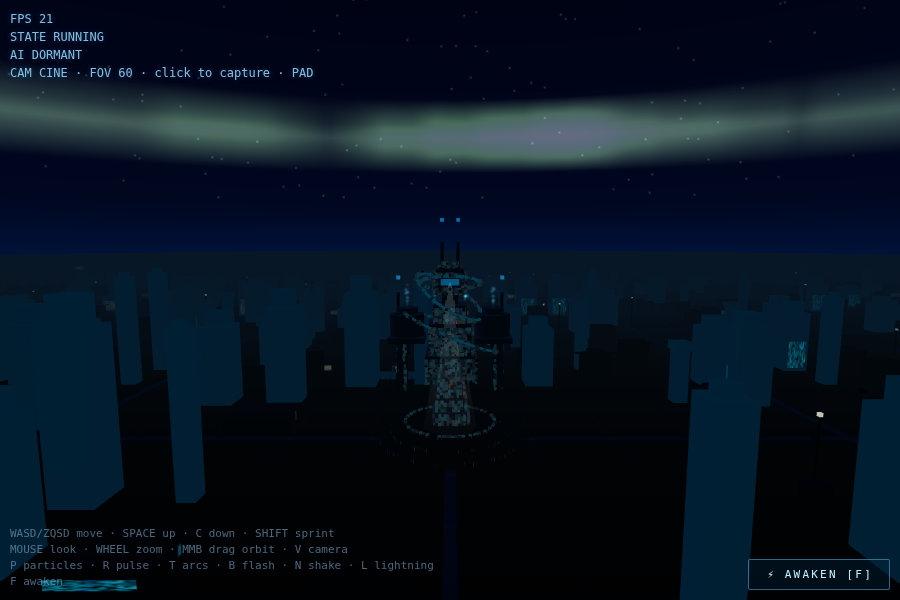
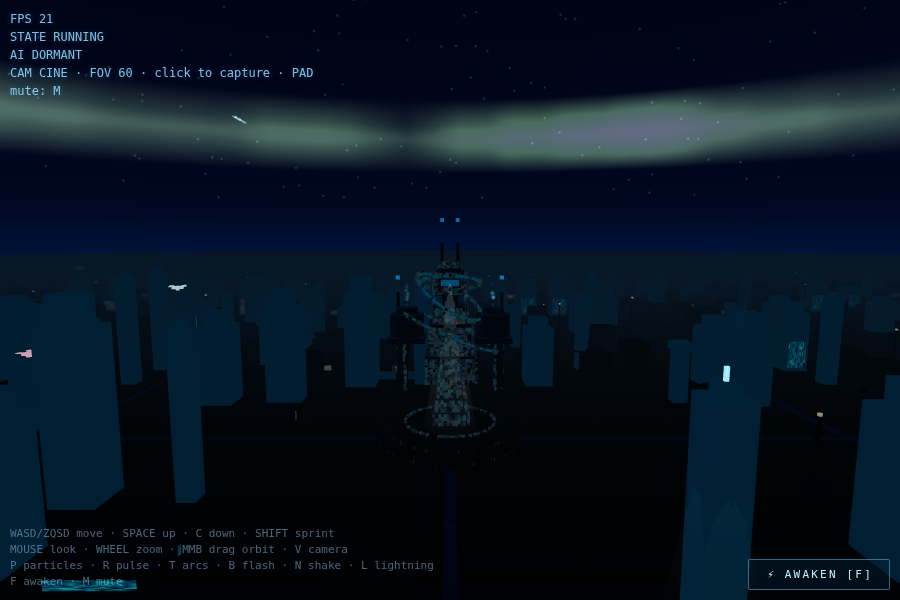
M11.1: Web Audio master graph + gesture gate — AUDIO = master bus gain (0.8) → DynamicsCompressor → user-mute gain → destination, built only inside the START-click gesture (unlock() is still only ever called from BOOT.enter('RUNNING') ⇒ no AudioContext, no audio, no listeners before the gesture); M 

diff --git a/index.html b/index.html
@@ -749,16 +749,36 @@ const BOOT = {
 };
 
 /* ------------------------------------------------------------------ *
- * AUDIO — gesture-gated unlock stub.
- * M11 builds the master graph + beds on top of this context.
+ * AUDIO — Web Audio master graph (M11.1).
+ *
+ * Graph:  master (bus gain) → compressor → muteGain → destination
+ *   - master:   one bus — M11.2 beds and M11.3 event sounds connect
+ *               here, so everything the game makes flows through the
+ *               same two choke points below.
+ *   - comp:     a DynamicsCompressor glues the whole mix; one for the
+ *               whole graph, never per-source.
+ *   - muteGain: user mute (M key) — the LAST stage before destination,
+ *               so muting silences everything at zero cost.
+ *
+ * Gesture gate: unlock() is only ever called from BOOT.enter('RUNNING')
+ * on the START click — no AudioContext exists before that gesture
+ * (no audio before gesture). Resume-safe: a context the browser
+ * suspended (tab hidden/backgrounded) is resumed on the next gesture
+ * or visibility; refresh / re-entry just rebuilds this module fresh
+ * and hits the same path again.
  * ------------------------------------------------------------------ */
 const AUDIO = {
   ctx: null,
   master: null,
+  comp: null,
+  muteGain: null,
+  muted: false,
+  wired: false,
+  _gestureWired: false,
 
   unlock() {
     if (AUDIO.ctx) {
-      if (AUDIO.ctx.state === 'suspended') AUDIO.ctx.resume();
+      AUDIO._resume();
       return;
     }
     const AC = window.AudioContext || window.webkitAudioContext;
@@ -767,10 +787,54 @@ const AUDIO = {
       AUDIO.ctx = new AC();
       AUDIO.master = AUDIO.ctx.createGain();
       AUDIO.master.gain.value = 0.8;
-      AUDIO.master.connect(AUDIO.ctx.destination);
+      AUDIO.comp = AUDIO.ctx.createDynamicsCompressor();
+      AUDIO.muteGain = AUDIO.ctx.createGain();
+      AUDIO.muteGain.gain.value = 1;
+      /* connect() returns the destination node (spec) — capture the
+       * wiring flag; the headless smoke build exposes no
+       * inputs/outputs introspection on AudioNode. */
+      const c1 = AUDIO.master.connect(AUDIO.comp);
+      const c2 = AUDIO.comp.connect(AUDIO.muteGain);
+      const c3 = AUDIO.muteGain.connect(AUDIO.ctx.destination);
+      AUDIO.wired = c1 === AUDIO.comp && c2 === AUDIO.muteGain &&
+        c3 === AUDIO.ctx.destination;
     } catch (_) {
       AUDIO.ctx = null;
     }
+    AUDIO._wireResume();
+  },
+
+  setMuted(on) {
+    AUDIO.muted = !!on;
+    if (AUDIO.ctx && AUDIO.muteGain) {
+      const t = AUDIO.ctx.currentTime;
+      AUDIO.muteGain.gain.setTargetAtTime(AUDIO.muted ? 0 : 1, t, 0.02);
+    }
+  },
+
+  toggleMute() { AUDIO.setMuted(!AUDIO.muted); },
+
+  /* Resume a context the browser suspended (tab hidden/backgrounded).
+   * It was created inside a user gesture (START click), so Chrome keeps
+   * activation for resume(); if a gesture is still required the call
+   * simply waits — never an error. */
+  _resume() {
+    if (AUDIO.ctx && AUDIO.ctx.state === 'suspended') {
+      const p = AUDIO.ctx.resume();
+      if (p && p.catch) p.catch(() => {});
+    }
+  },
+
+  /* Cheap gesture hooks, wired once at unlock — zero cost before the
+   * first gesture (nothing exists yet). */
+  _wireResume() {
+    if (AUDIO._gestureWired) return;
+    AUDIO._gestureWired = true;
+    window.addEventListener('pointerdown', () => AUDIO._resume());
+    window.addEventListener('keydown', () => AUDIO._resume());
+    document.addEventListener('visibilitychange', () => {
+      if (!document.hidden) AUDIO._resume();
+    });
   },
 };
 
@@ -868,6 +932,7 @@ const INPUT = {
       if (e.code === 'KeyN' && !e.repeat) INPUT.shakeTrigger = true;
       if (e.code === 'KeyL' && !e.repeat) INPUT.lightningTrigger = true;
       if (e.code === 'KeyF' && !e.repeat) INPUT.wakeTrigger = true;
+      if (e.code === 'KeyM' && !e.repeat) AUDIO.toggleMute();   // M11.1
       INPUT.keys.add(e.code);
       if (e.code === 'Space') e.preventDefault();
     });
@@ -6372,7 +6437,7 @@ const HUD = {
       'WASD/ZQSD move · SPACE up · C down · SHIFT sprint\n' +
       'MOUSE look · WHEEL zoom · MMB drag orbit · V camera\n' +
       'P particles · R pulse · T arcs · B flash · N shake · L lightning\n' +
-      'F awaken';
+      'F awaken · M mute';
     /* M9.6: HUD awaken button — same entry as the F key: the manual
      * trigger path routes through ENTITY.wake() (no-op unless DORMANT)
      * and marks the session user-triggered so the one-shot auto skips. */
@@ -6396,11 +6461,13 @@ const HUD = {
         const mode = CAMERA.orbit ? 'ORBIT' : CAMERA.mode;
         const mouse = INPUT.pointerLocked ? 'locked' : 'click to capture';
         const pad = INPUT.pad.connected ? 'PAD' : '-';
+        const mute = AUDIO.muted ? 'MUTED' : 'mute: M';
         HUD.el.textContent =
           `FPS ${String(Math.round(HUD.fps)).padStart(2, ' ')}\n` +
           `STATE ${BOOT.state}\n` +
           `AI ${ENTITY.state}\n` +
-          `CAM ${mode} · FOV ${Math.round(camera.fov)} · ${mouse} · ${pad}`;
+          `CAM ${mode} · FOV ${Math.round(camera.fov)} · ${mouse} · ${pad}\n` +
+          `${mute}`;
         HUD.el.style.whiteSpace = 'pre';
       }
     }
@@ -6493,6 +6560,7 @@ window.SIM = {
   FX,
   ATMOS,
   TIER,
+  AUDIO,
   HUD,
   CFG,
   renderer,

diff --git a/PLAN.md b/PLAN.md
@@ -73,7 +73,7 @@ smoke-test evidence.
 | **M10.1** ✅ | Voxel neon **sloth** monument atop one compute tower on a side avenue + rooftop "UNSLOTH" holo sign with cycling taglines ("local ≠ slow" / "why rush?") | Monument + sign readable from street; sign cycles; outside default intro framing |
 | **M10.2** ✅ | Relaxed holographic sloth silhouette on the antenna arm (billboard + canvas sprite, additive, slow breathing) + 1–2 slow sloth-themed maintenance drones (bigger, soft pink) patrolling that street only | Holo sloth breathes; pink drones patrol only that street |
 | **M10.3** ✅ | Awakening reaction: sign flares, holograph brightens + one slow stretch, sloth drones rise to hover for the pulse, then resume | Reaction plays during AWAKE, everything returns to idle after DECAY |
-| **M11.1** | Audio master graph: compressor → user-mute gain → destination; gesture-gated start (START button), resume-safe | Audio starts only after gesture; mute key mutes all; refresh/re-entry safe |
+| **M11.1** ✅ | Audio master graph: compressor → user-mute gain → destination; gesture-gated start (START button), resume-safe | Audio starts only after gesture; mute key mutes all; refresh/re-entry safe |
 | **M11.2** | Looping beds: reactor hum (detuned sines + sub + LFO), fans (filtered noise, band-pass sweep), distant machinery (noise + random low thumps) | Beds run indefinitely without audible repeats/bugs; identifiable as "machine city" within 3 s |
 | **M11.3** | Event sounds: pulse thump, arc crackle, steam hiss, drone whir — wired to M6–M9 emitters | Each event in-game produces its sound; all silent when muted; zero cost when idle |
 | **M11.4** | Spatial-ish mixing: one panner + distance gain for 2–3 nearest emitters, rest folded into ambient bed | Walking past an emitter pans/attenuates; cost bounded |
@@ -852,11 +852,45 @@ feels like it belongs to the world, not pasted on.
 ### M11 — Procedural audio (Web Audio only)
 
 #### M11.1 — Master graph + gesture gate
-- [ ] Compressor → user-mute gain → destination; starts only on user
+- [x] Compressor → user-mute gain → destination; starts only on user
       gesture (START button), resume-safe.
 - **Test:** no audio before gesture; mute key mutes everything; refresh /
       re-entry safe, no errors.
 - **Commit when:** gate + mute verified.
+  `AUDIO` (exposed on `window.SIM`) is the Web Audio master graph, built
+  inside the START-click gesture and never before: **master** (GainNode,
+  0.8) → **comp** (DynamicsCompressor) → **muteGain** (GainNode, 1.0) →
+  `ctx.destination`. Everything the game makes (M11.2 beds, M11.3 event
+  sounds, M11.4 spatial sources) connects to `AUDIO.master`; the
+  compressor and the mute gain are the only two choke points. `unlock()`
+  is only ever called from `BOOT.enter('RUNNING')` (the START click — the
+  single user gesture, M0 contract), so **no `AudioContext` exists before
+  the gesture**; it is idempotent and resume-safe: a context the browser
+  suspended (tab hidden/backgrounded) is resumed via `ctx.resume()`
+  (`.catch`-guarded) on the next `pointerdown`/`keydown`/
+  `visibilitychange` — listeners wired once at unlock (`_gestureWired`
+  guard ⇒ zero cost before the first gesture). **Mute:** `M` key (INPUT
+  keydown, repeat-guarded) → `AUDIO.toggleMute()` →
+  `muteGain.gain.setTargetAtTime(0|1, t, 0.02)`; `AUDIO.muted` flag;
+  HUD shows `MUTED`/`mute: M`, hint line reads `F awaken · M mute`.
+  Refresh / re-entry rebuilds the module fresh and hits the same path.
+  **Wiring verification (headless gotcha):** the headless smoke Chrome
+  build exposes no `inputs`/`outputs`/`connections` on `AudioNode` and no
+  `DynamicsCompressor` global, so the harness cannot introspect the
+  graph — the app instead captures `AUDIO.wired` at build time from
+  `connect()` return values (spec: returns the destination node).
+  Smoke M11.1 section (9 checks, after M10.3) reloads the page for the
+  pre-gesture check: `AUDIO.ctx === null` before START, then
+  graph/types/wired + `state === 'running'` after the gesture, M-key
+  mute→0 / unmute→1 by gain value, refresh → fresh module (ctx null
+  again) → re-entry unlocks a fresh running context, no page/console
+  errors; it re-parks `ATMOS._ltTimer` + `ENTITY._autoAt` after the
+  reload like the other sections. 9/9 PASS in 3 consecutive full-suite
+  runs; the only failures are the documented pre-existing headless flakes
+  (M7.5 camera-shake `energy=1.18` baseline) plus single-run
+  screenshot/timing flakes (M6.2 dock window, M8.1 star brightness) —
+  unrelated to M11.1 (audio adds no draw calls, no objects, no per-frame
+  work).
 
 #### M11.2 — Looping beds
 - [ ] Reactor hum (2 detuned sines/triangles + sub sine, slow LFO); fans

diff --git a/brain/pages/m111-audio-master-graph.md b/brain/pages/m111-audio-master-graph.md
@@ -1,0 +1,35 @@
+---
+id: m111-audio-master-graph
+title: "M11.1: Web Audio master graph (master→compressor→muteGain) + gesture gate + M-key mute"
+category: decision
+status: active
+tags: [audio, webaudio, master-graph, mute, gate]
+created: "2026-09-19T02:37:50"
+updated: "2026-09-19T02:38:27"
+---
+
+<!-- compiled_truth -->
+`AUDIO` (single `index.html`, exposed on `window.SIM`) is the Web Audio master graph, built inside the START-click gesture and never before:
+
+- **Graph:** `master` (GainNode, 0.8) → `comp` (DynamicsCompressor) → `muteGain` (GainNode, 1.0) → `ctx.destination`. Everything the game makes (M11.2 beds, M11.3 event sounds, M11.4 spatial sources) connects to `AUDIO.master`; the compressor and the mute gain are the only two choke points. Muting is `muteGain` (the last stage before destination) ⇒ "mute key mutes everything" at zero cost.
+- **Gesture gate:** `AUDIO.unlock()` is only ever called from `BOOT.enter('RUNNING')` (the START click — see [[three-cdn-pin-boot-watchdog]]). No `AudioContext` exists before that gesture; `unlock()` is idempotent (second call = resume path).
+- **Mute:** `M` key (INPUT keydown, repeat-guarded, RUNNING-guarded) → `AUDIO.toggleMute()` → `setMuted(on)` → `muteGain.gain.setTargetAtTime(0|1, t, 0.02)`; `AUDIO.muted` flag. HUD shows `MUTED` / `mute: M`; hint line reads `F awaken · M mute`.
+- **Resume-safe:** `_resume()` calls `ctx.resume()` (with `.catch`) when state is `suspended`; wired once at unlock via `pointerdown`/`keydown`/`visibilitychange` listeners (`_gestureWired` guard — zero cost before the first gesture). Refresh / re-entry just rebuilds the module fresh and hits the same path.
+- **Wiring verification (headless gotcha):** the headless smoke Chrome build exposes NO `inputs`/`outputs`/`connections` on `AudioNode` and no `DynamicsCompressor` global, so the smoke harness cannot introspect the graph. Instead the app captures `AUDIO.wired` at build time from `connect()` return values (spec: returns the destination node): `wired = (master.connect(comp)===comp) && (comp.connect(muteGain)===muteGain) && (muteGain.connect(destination)===destination)`. Smoke asserts node constructor names (`GainNode` / `DynamicsCompressorNode` / `AudioDestinationNode`) + `wired` + gain values + behavior.
+- **Smoke (M11.1 section, 9 checks, after M10.3):** reloads the page (pre-gesture check needs a fresh LOADER page), asserts `AUDIO.ctx === null` before START, graph/types/wired + `state === 'running'` after, M-key mute→0 / unmute→1 by gain value, refresh → fresh module (ctx null again) → re-entry unlocks a fresh running context, no page/console errors. After the reload it re-parks `ATMOS._ltTimer` + `ENTITY._autoAt` like the other sections.
+- M11.2+ seam: connect beds/events to `AUDIO.master`; per-source panners (M11.4) go on `master` too — never a second compressor or destination path.
+
+
+## Timeline
+
+- time: 2026-09-19T02:37:50
+  kind: decision
+  summary: "Created this page: M11.1: Web Audio master graph (master→compressor→muteGain) + gesture gate + M-key mute"
+  source: M11.1 implementation
+  affects: [m111-audio-master-graph]
+
+- time: 2026-09-19T02:38:27
+  kind: decision
+  summary: "M11.1 implemented: master graph (master 0.8 → compressor → muteGain → destination), START-click gesture gate, M-key mute, resume-safe; headless WebAudio exposes no node introspection ⇒ app-side AUDIO.wired flag from connect() return values; smoke M11.1 9 checks green in 3 runs"
+  source: M11.1 implementation
+  affects: [m111-audio-master-graph]

diff --git a/brain/roadmap.md b/brain/roadmap.md
@@ -2,12 +2,12 @@
 slug: roadmap
 title: Roadmap
 role: milestones
-updated: "2026-09-18T21:17:19"
+updated: "2026-09-19T02:39:46"
 ---
 
 # Roadmap
 
-Full per-milestone scope/gates live in `PLAN.md` (M0–M14, single-file demo "QWEN FLASH // AWAKENING"). Status: **M0–M10.2 done and smoke-verified headless** — M10.2 holo-sloth hologram + street-only sloth drones ([[m102-holo-sloth-drones]]); M10.1 unsloth monument + UNSLOTH sign ([[m101-sloth-monument]]); M9 awakening sequence ([[m92-wake-state-machine]], [[m94-city-cascade]], [[m95-awakening-decay]], [[m96-wake-triggers]]); M8 atmosphere ([[m81-night-sky]], [[m82-fog-zone-tint]], [[m83-light-shafts]], [[m84-distant-lightning]]); M7 particles + FX ([[m71-parts-particle-system]], [[m72-fx-pulse]], [[m73-fx-arcs]], [[m74-fx-flash]], [[m75-camera-shake]]); M6 traffic/ambient ([[m61-object-pool]], [[m62-traffic-drones]], [[m63-traffic-vehicles]], [[m64-steam-sparks]]); M5 dormant creature ([[entity-system-m5]]).
+Full per-milestone scope/gates live in `PLAN.md` (M0–M14, single-file demo "QWEN FLASH // AWAKENING"). Status: **M0–M11.1 done and smoke-verified headless** — M11.1 audio master graph + gesture gate + M-key mute ([[m111-audio-master-graph]]); M10.3 awakening reaction ([[m103-awakening-reaction]]); M10.2 holo-sloth hologram + street-only sloth drones ([[m102-holo-sloth-drones]]); M10.1 unsloth monument + UNSLOTH sign ([[m101-sloth-monument]]); M9 awakening sequence ([[m92-wake-state-machine]], [[m94-city-cascade]], [[m95-awakening-decay]], [[m96-wake-triggers]]); M8 atmosphere ([[m81-night-sky]], [[m82-fog-zone-tint]], [[m83-light-shafts]], [[m84-distant-lightning]]); M7 particles + FX ([[m71-parts-particle-system]], [[m72-fx-pulse]], [[m73-fx-arcs]], [[m74-fx-flash]], [[m75-camera-shake]]); M6 traffic/ambient ([[m61-object-pool]], [[m62-traffic-drones]], [[m63-traffic-vehicles]], [[m64-steam-sparks]]); M5 dormant creature ([[entity-system-m5]]).
 
 ```mermaid
 gantt
@@ -31,9 +31,10 @@ gantt
   M9 awakening sequence :done, m9, after m8, 3d
   M10.1 unsloth monument + sign :done, m101, after m9, 1d
   M10.2 holo sloth + street drones :done, m102, after m101, 1d
-  M10.3 easter-egg reaction :m103, after m102, 1d
+  M10.3 easter-egg reaction :done, m103, after m102, 1d
   section Finish
-  M11 procedural audio :m11, after m103, 2d
+  M11.1 audio master graph + gesture gate :done, m111, after m103, 1d
+  M11.2-11.4 beds, events, mixing :m11, after m111, 2d
   M12 intro cinematic :m12, after m11, 2d
   M13 emergent event director :m13, after m12, 3d
   M14 perf, tiers, polish :m14, after m13, 3d

diff --git a/brain/index.md b/brain/index.md
@@ -1,11 +1,12 @@
 # Brain Index
 
-_Auto-generated. Last updated 2026-09-18T20:39:07.759Z._
+_Auto-generated. Last updated 2026-09-18T23:38:36.125Z._
 
 - [entity-system-m5](pages/entity-system-m5.md) — category: decision | tags: [entity, m5, creature, instancing] | ENTITY is the 6th system in the fixed boot order (INPUT → CAMERA → KIT → WORLD → **ENTITY** → HUD), registered between WORLD and HUD in `ind
 - [m101-sloth-monument](pages/m101-sloth-monument.md) — category: decision | tags: [m10, unsloth, easter-egg, world] | M10.1 adds the unsloth monument as a **standalone** child of `WORLD.root`
 - [m102-holo-sloth-drones](pages/m102-holo-sloth-drones.md) — category: decision | tags: [m10, unsloth, easter-egg, world, traffic] | M10.2 adds the two remaining "unsloth" pieces to the M10.1 monument, both as
 - [m103-awakening-reaction](pages/m103-awakening-reaction.md) — category: decision | tags: [m10, unsloth, easter-egg, world, entity] | M10.3 implements the Unsloth easter-egg **awakening reaction** on the M10.1/M10.2
+- [m111-audio-master-graph](pages/m111-audio-master-graph.md) — category: decision | tags: [audio, webaudio, master-graph, mute, gate] | `AUDIO` (single `index.html`, exposed on `window.SIM`) is the Web Audio master graph, built inside the START-click gesture and never before:
 - [m2-material-kit](pages/m2-material-kit.md) — category: decision | tags: [kit, materials, draw-calls, three] | M2's `KIT` system is the shared foundation every later visual milestone builds on:
 - [m61-object-pool](pages/m61-object-pool.md) — category: decision | tags: [pool, traffic, m6, performance] | `POOL` (top-level module in `index.html`, exposed as `window.SIM.POOL`) is the single object-pool foundation all M6/M7 emitters (drones, veh
 - [m62-traffic-drones](pages/m62-traffic-drones.md) — category: decision | tags: [m6, traffic, pool, tier] | ## Decided

diff --git a/brain/pages/smoke-harness-dev-tooling.md b/brain/pages/smoke-harness-dev-tooling.md
@@ -5,7 +5,7 @@ category: decision
 status: active
 tags: [testing, smoke, playwright, tooling]
 created: "2026-09-15T00:48:03"
-updated: "2026-09-16T03:19:20"
+updated: "2026-09-19T02:38:36"
 ---
 
 <!-- compiled_truth -->
@@ -59,3 +59,9 @@ Known gotchas (Chrome CDP / Playwright): `Input.dispatchMouseEvent`'s `buttons` 
   summary: "M8.1 extends the harness: fixed-order check is now …FX→ATMOS→HUD; M2 gate hides/shows ATMOS.root around its draw-call read; new M8.1 section — ATMOS registration (dome BackSide fog-off, stars additive fog-off, aurora additive fog-off), camera-follow (dome/stars track exactly, aurora at configured altitude), +3 draw calls (min-over-6-frames per state, retry ≤3 — other systems add transient calls), star drawRange tier cap, aurora spin animation, heap flat on pure animation frames, and the first multi-pose on/off visual gate: 3 camera distances (street GROUND / orbit CINE / far CINE), each an ATMOS-hidden vs visible screenshot pair decoded in-page, sky region = top 55 % at x ≥ 25 % (HUD corner excluded), asserting mean luminance (dome), bright pixels (stars), greenish pixels (aurora) all rise; on-shots saved as shots/m81-sky-{street,orbit,far}.png"
   source: M8.1 implementation
   affects: [smoke-harness-dev-tooling, m81-night-sky]
+
+- time: 2026-09-19T02:38:36
+  kind: decision
+  summary: "M11.1 extends the harness: new M11.1 section (9 checks, after M10.3) reloads the page for the pre-gesture check (AUDIO.ctx null before START), verifies the master graph via the app-side AUDIO.wired flag (captured from connect() return values) + node constructor names — the headless WebAudio build exposes no inputs/outputs/connections and no DynamicsCompressor global — then M-key mute/unmute by gain value and refresh/re-entry; window.SIM now also exposes AUDIO"
+  source: M11.1 implementation
+  affects: [smoke-harness-dev-tooling]
